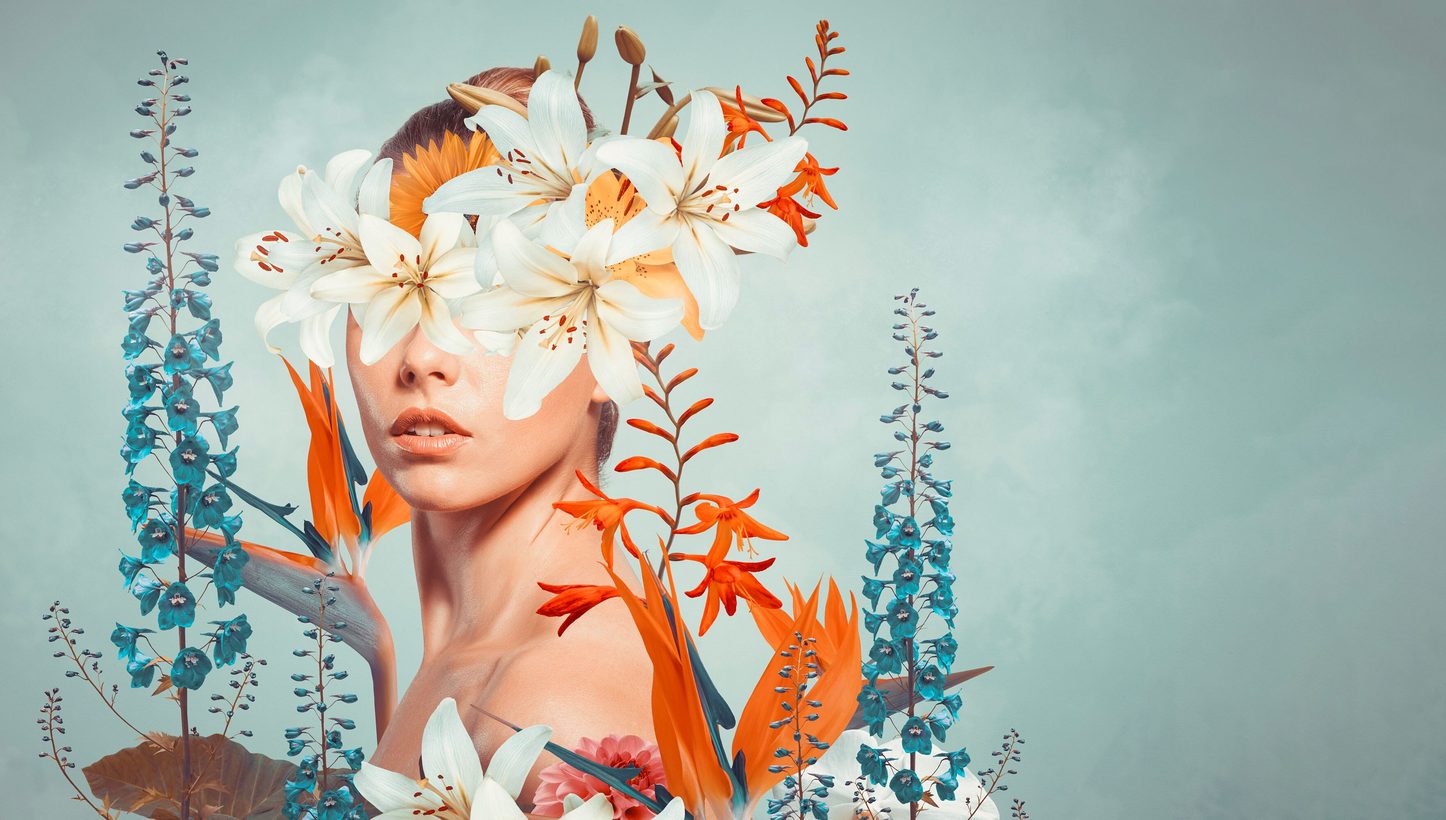
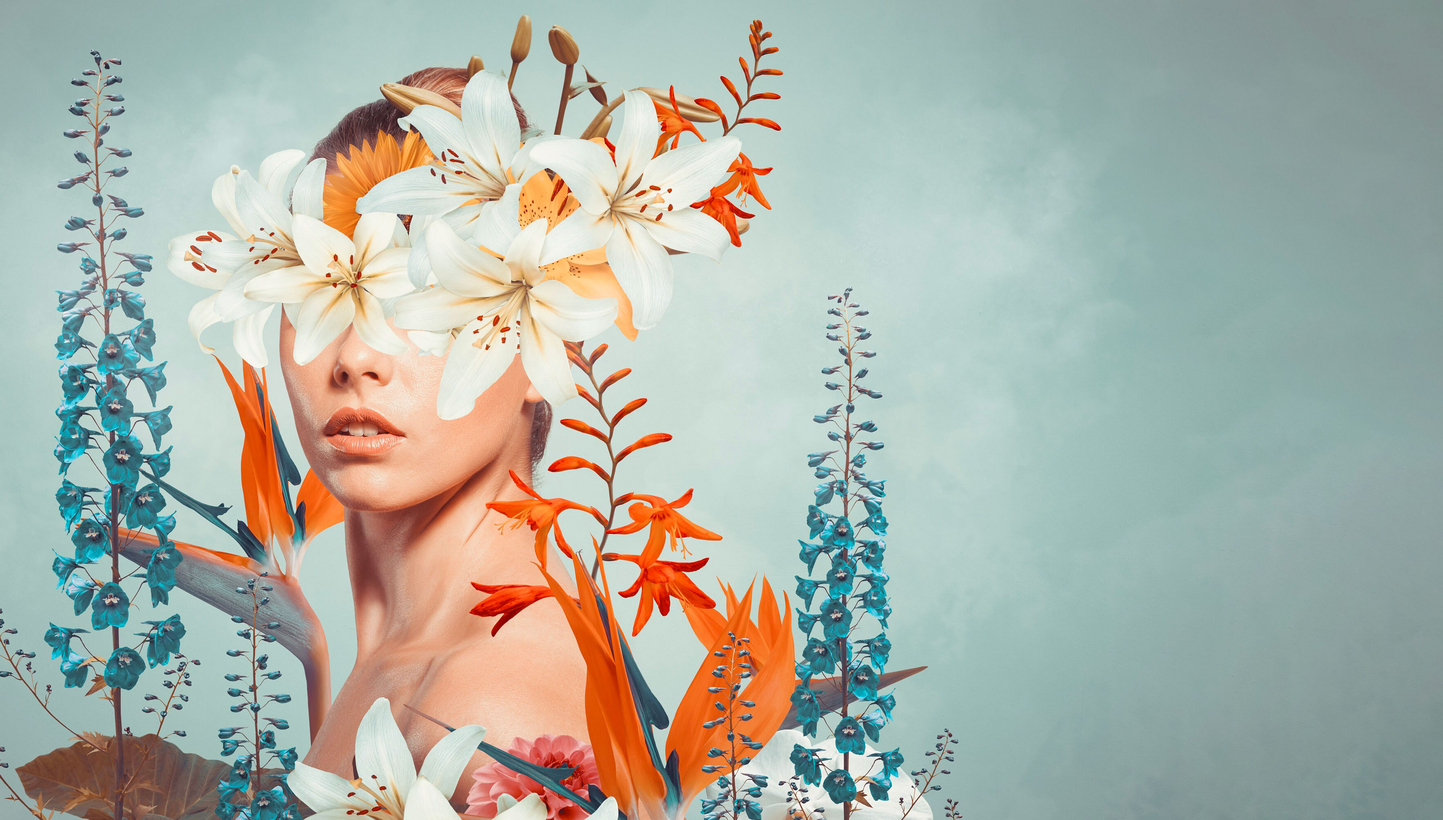
Tipografía Actualizada

diff --git a/index.html b/index.html
@@ -5,9 +5,12 @@
     <meta charset="UTF-8">
     <meta http-equiv="X-UA-Compatible" content="IE=edge">
     <meta name="viewport" content="width=device-width, initial-scale=1.0">
+
+    <!--GOOGLE FONTS-->
     <link rel="preconnect" href="https://fonts.googleapis.com">
     <link rel="preconnect" href="https://fonts.gstatic.com" crossorigin>
-    <link href="https://fonts.googleapis.com/css2?family=Raleway:wght@400;700&display=swap" rel="stylesheet">
+    <link href="https://fonts.googleapis.com/css2?family=Open+Sans:wght@300;600;700&display=swap" rel="stylesheet">
+    
     <link href="https://cdn.jsdelivr.net/npm/bootstrap@5.1.3/dist/css/bootstrap.min.css" rel="stylesheet"
         integrity="sha384-1BmE4kWBq78iYhFldvKuhfTAU6auU8tT94WrHftjDbrCEXSU1oBoqyl2QvZ6jIW3" crossorigin="anonymous">
     <title>Michelle Puebla</title>
@@ -51,15 +54,14 @@
         <div class="container">
             <div class="ms-auto col-12 col-md-7 ">
                 <h1 class="display-1 fw-bold my-5">
-                    Comidas del fin <br> del mundo
+                    Diseño a medida <br> para tu éxito
                 </h1>
                 <p class="my-5">
                     Lorem ipsum dolor sit amet consectetur adipisicing elit. Facilis, accusamus iusto quibusdam
-                    dignissimos labore sequi. Cupiditate reiciendis eius dolore, illum adipisci harum voluptas iste
-                    mollitia inventore provident labore voluptatum nemo.
+                    dignissimos labore sequi. Cupiditate reiciendis eius dolore, illum adipisci harum voluptas iste.
                 </p>
                 <div class="mb-5 pb-5">
-                    <button class="btn btn-lg btn-outline-info text-light me-4">Trabajos</button>
+                    <button class="btn btn-lg btn-outline-info text-light me-4">Ver más</button>
                     <button class="btn btn-lg btn-info text-light">Contacto</button>
                 </div>
             </div>
@@ -120,14 +122,14 @@
         <div class="row">
             <div class="col-12 col-sm-4 py-2">
                 <div class="card">
-                    <div class="image-top" style="background-image: url(assets/img/card-1.jpg)"></div>
+                    <div class="image-top" style="background-image: url(assets/img/foto-1.jpg)"></div>
                     <div class="card-body">
-                        <h5 class="card-title fw-bold">Asado en la Patagonia</h5>
+                        <h5 class="card-title fw-bold">PRODUCTOS COSMÉTICOS</h5>
                         <p class="card-text">
                             Lorem ipsum dolor sit amet, consectetur adipisicing elit.
                             Explicabo iure sint, perspiciatis distinctio molestias nihil
                             repudiandae neque rem adipisci repellendus libero illo quo
-                            blanditiis, velit quasi ad, recusandae voluptates officia.
+                            blanditiis, velit quasi ad.
                         </p>
                         <button type="button" class="btn btn-outline-info">
                             Ver más
@@ -137,14 +139,14 @@
             </div>
             <div class="col-12 col-sm-4 py-2">
                 <div class="card">
-                    <div class="image-top" style="background-image: url(assets/img/card-2.jpg)"></div>
+                    <div class="image-top" style="background-image: url(assets/img/foto-2.jpg)"></div>
                     <div class="card-body">
-                        <h5 class="card-title fw-bold">Papas del fin del mundo</h5>
+                        <h5 class="card-title fw-bold">DESARROLLO ESTÉTICA 3D</h5>
                         <p class="card-text">
                             Lorem ipsum dolor sit amet, consectetur adipisicing elit.
                             Deserunt a culpa doloremque voluptatem dicta nam. Maxime ipsum,
                             consequatur quos error fuga excepturi quo. Laudantium optio
-                            pariatur laboriosam modi, ea molestias?
+                            pariatur laboriosam modi
                         </p>
                         <button type="button" class="btn btn-outline-info">
                             Ver más
@@ -154,9 +156,9 @@
             </div>
             <div class="col-12 col-sm-4 py-2">
                 <div class="card">
-                    <div class="image-top" style="background-image: url(assets/img/card-3.jpg)"></div>
+                    <div class="image-top" style="background-image: url(assets/img/foto-3.jpg)"></div>
                     <div class="card-body">
-                        <h5 class="card-title fw-bold">Salmones de Alaska</h5>
+                        <h5 class="card-title fw-bold">BRANDING Y ESTRATEGIA</h5>
                         <p class="card-text">
                             Lorem ipsum dolor sit amet, consectetur adipisicing elit.
                             Obcaecati facere quibusdam sint id laborum magni velit ducimus
@@ -217,7 +219,7 @@
 
 
     <footer class="bg-dark text-center text-light p-4">
-        <p class="mb-0">Olivia Ros 2019. Todos los derechos reservados.</p>
+        <p class="mb-0">Michelle Puebla 2023. Todos los derechos reservados.</p>
     </footer>
 
 

diff --git a/assets/css/estilos.css b/assets/css/estilos.css
@@ -1,11 +1,11 @@
 body {
-  font-family: "Raleway", sans-serif;
+  font-family: 'Open Sans', sans-serif;
 }
 
 /* Hero Section */
 
 #Hero-Section {
-  background-image: url("../img/bg-hero.jpg");
+  background-image: url("../img/fondo.jpg");
   background-repeat: no-repeat;
   background-size: cover;
   background-position: left;
